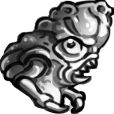
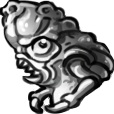
Lots of tweaks
- New Kraid image
- Prizes on SM bosses
- Flute and MP Upgrade simplified

diff --git a/script/main.js b/script/main.js
@@ -64,7 +64,7 @@ let defaultBoth = {
   iZoom: 100,
   map: 1,
   mOrien: 1,
-  showLabels: true,
+  showLabels: false,
   editMode: false,
   selected: {}
 };
@@ -178,7 +178,7 @@ let defaultOptions = {
     mapSwords: true,
     itemPlacement: "basic",
     mPos: "Side",
-    mZoom: 80,
+    mZoom: 100,
     showChests: true,
     showPrizes: true,
     showMedals: true
@@ -816,7 +816,7 @@ function setZoom(target, sender) {
 
   if (target == "itemdiv") {
     //TODO: size based on rows and columns
-    e.style.width = 410 * sender.value / 100;
+    e.style.width = 440 * sender.value / 100;
     e.style.height = 800 * sender.value / 100;
   }
 
@@ -1481,6 +1481,18 @@ Vue.component('tracker-cell', {
   ],
   computed: {
     bossNum: function () {
+      if (this.itemName == "kraid") {
+         return "13";
+      }
+      if (this.itemName == "phantoon") {
+         return "14";
+      }
+      if (this.itemName == "draygon") {
+         return "15";
+      }
+      if (this.itemName == "ridley") {
+         return "16";
+      }
       if (this.itemName.indexOf("boss") === -1) {
         return null;
       }
@@ -1542,7 +1554,11 @@ Vue.component('tracker-cell', {
       if (["zelda3"].indexOf(selectedGame) == -1) {
         return null;
       }
-      if (this.bossNum && this.bossNum !== "10" && this.trackerData[selectedGame] && this.trackerData[selectedGame].showPrizes) {
+      if (this.bossNum == null || this.bossNum == "10" ||
+         this.bossNum == "11" || this.bossNum == "12") {
+         return null;
+      }
+      if (this.trackerData[selectedGame] && this.trackerData[selectedGame].showPrizes) {
         return "url(" + build_img_url("dungeon" + this.trackerData[selectedGame].prizes[this.bossNum]) + ")";
       }
       return null;

diff --git a/script/zelda3/items.js b/script/zelda3/items.js
@@ -37,7 +37,6 @@ defaultItemGrid.zelda3 = [
 	[
 		"sword",
 		"shield",
-		"bomb",
 		"tunic",
 		"silvers",
 		"agahnim"
@@ -85,8 +84,6 @@ defaultItemGrid.zelda3 = [
       "phantoon",
       "draygon",
       "ridley",
-      "etank",
-      "rtank",
    ]
 ];
 
@@ -106,6 +103,7 @@ dungeonchestsInit.zelda3 = {
     12: 0
 };
 
-dungeonbeatenInit.zelda3 = [false, false, false, false, false, false, false, false, false, false, false, false, false];
-prizesInit.zelda3 = [0, 0, 0, 0, 0, 0, 0, 0, 0, 0, 0, 0, 0];
-medallionsInit.zelda3 = [0, 0, 0, 0, 0, 0, 0, 0, 0, 0, 0, 0, 0];
+// 13 bosses in Z3 + 4 bosses in SM
+dungeonbeatenInit.zelda3 = Array(13 + 4).fill(false);
+prizesInit.zelda3 = Array(13 + 4).fill(0);
+medallionsInit.zelda3 = Array(13 + 4).fill(0);

diff --git a/script/zelda3/item-limits.js b/script/zelda3/item-limits.js
@@ -3,11 +3,9 @@ var iMin = {
   shield:         0,
   tunic:          1,
 
-  flute:          0,
   bottle:         0,
   boomerang:      0,
   glove:          0,
-  mpupgrade:      0,
   bomb:           0,
   heartcontainer: 0,
   heartpiece:     0,
@@ -36,11 +34,9 @@ var iMax = {
   shield:         3,
   tunic:          3,
 
-  flute:          2,
   bottle:         4,
   boomerang:      3,
   glove:          2,
-  mpupgrade:      2,
   bomb:           2,
   heartcontainer: 11,
   heartpiece:     24,

diff --git a/script/items.js b/script/items.js
@@ -170,7 +170,7 @@ var itemsInit = {
   quake:          false,
   lantern:        false,
   hammer:         false,
-  flute:          0,
+  flute:          false,
   shovel:         false,
   net:            false,
   book:           false,
@@ -184,7 +184,7 @@ var itemsInit = {
   glove:          0,
   flippers:       false,
   moonpearl:      false,
-  mpupgrade:      0,
+  mpupgrade:      false,
   silvers:        false,
   woods:          false,
 

diff --git a/script/shared.js b/script/shared.js
@@ -154,7 +154,6 @@ function build_img_url(item, useGame = selectedGame) {
     bottle0:    "bottle1",
     crystal5:   "dungeon" + OJCRYSTAL,
     crystal6:   "dungeon" + OJCRYSTAL,
-    flute:      "flute0",
     glove0:     "glove1",
     lamp:       "lantern",
     medallion1: "bombos",
